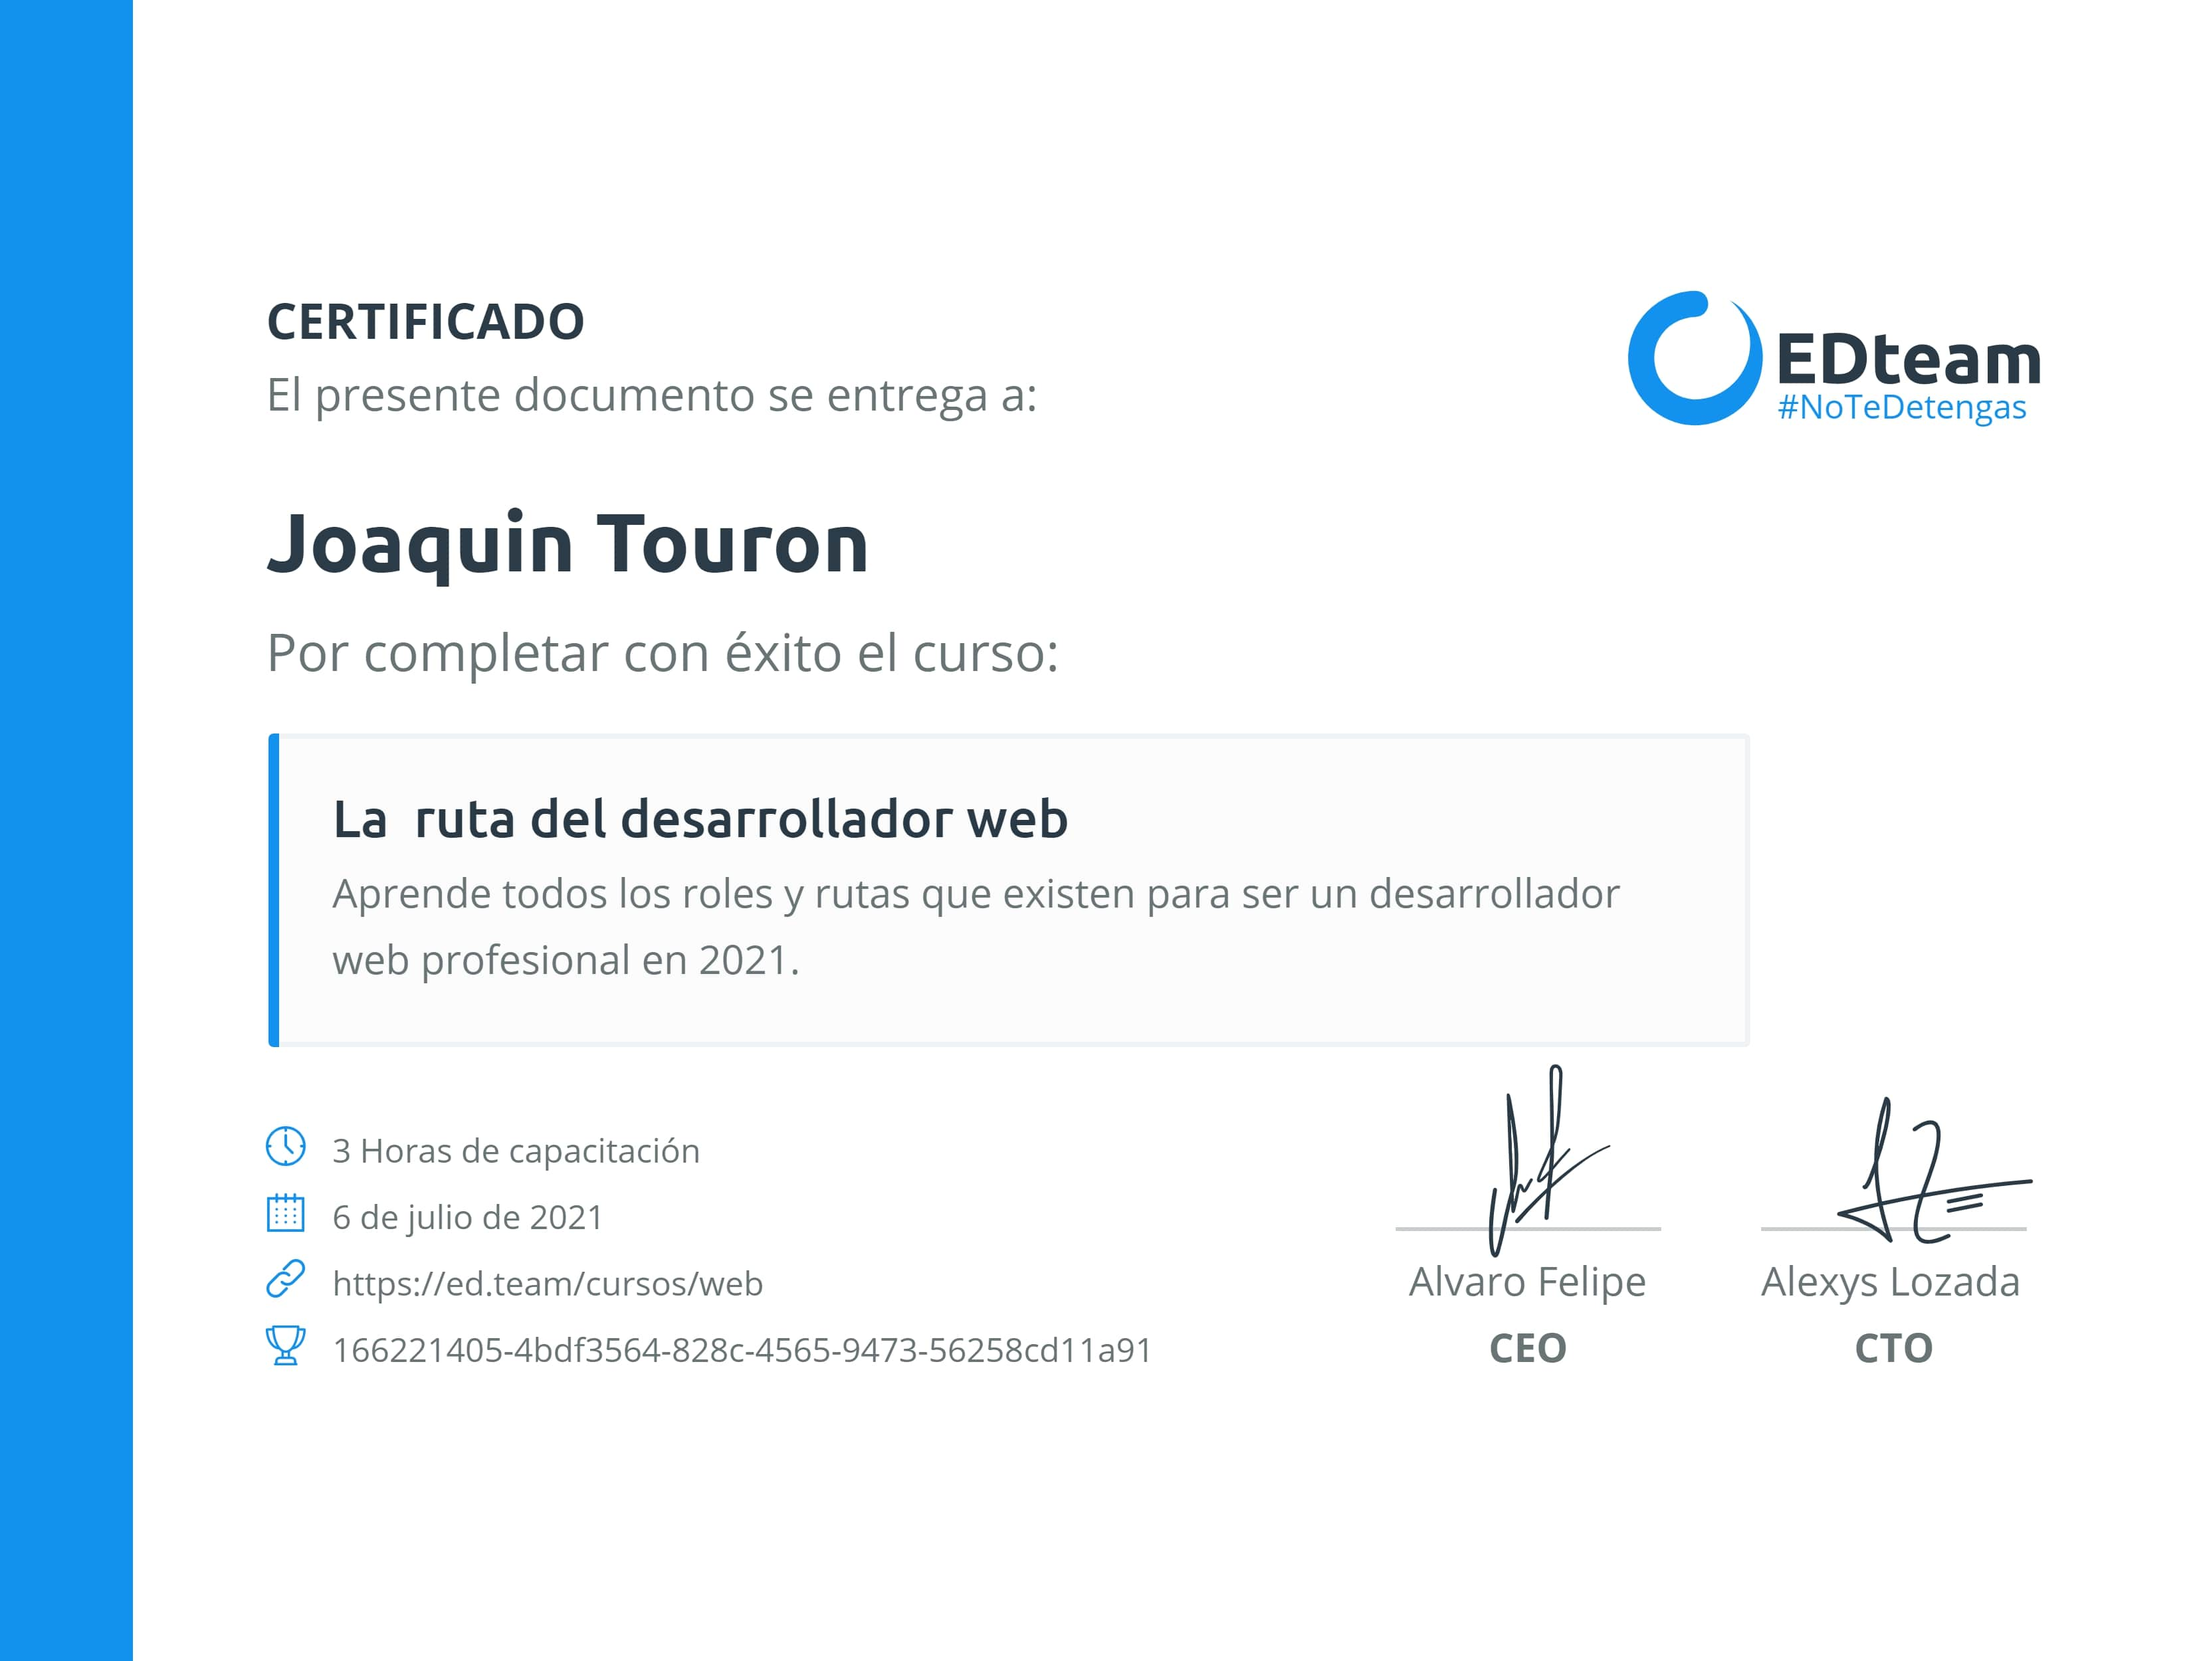
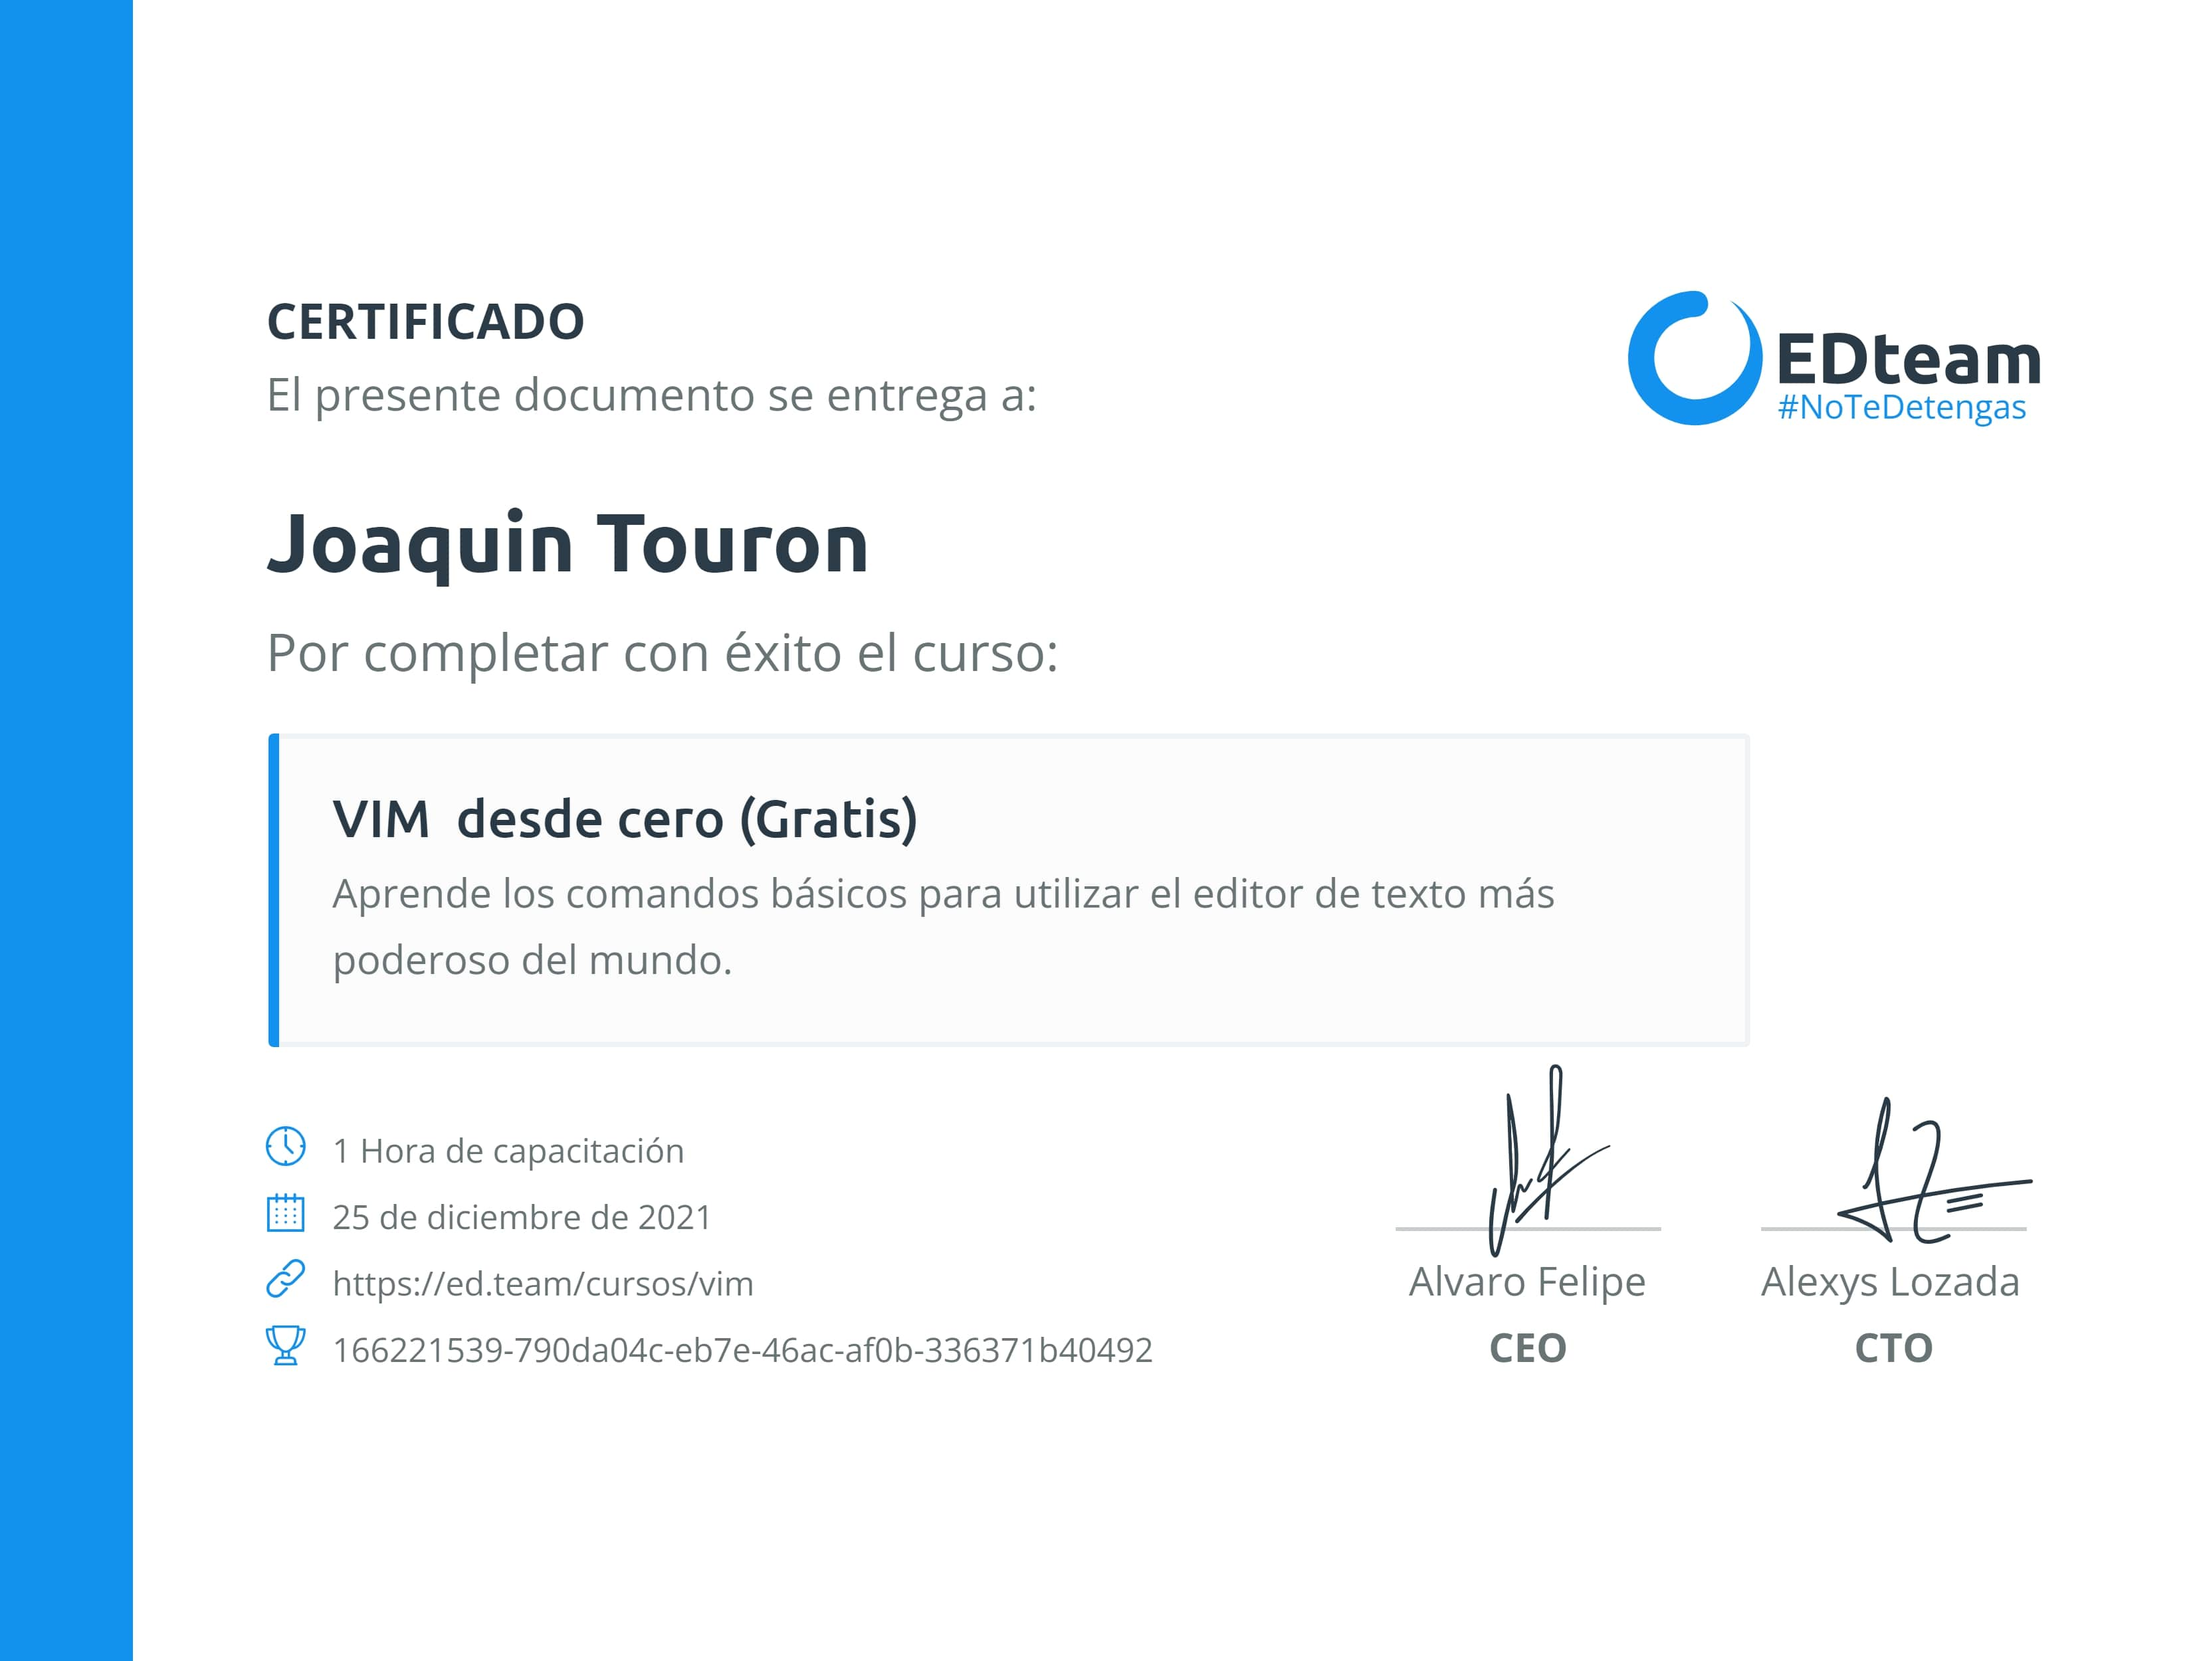
added vim certificate

diff --git a/js/script.js b/js/script.js
@@ -109,7 +109,7 @@ var image1 = document.getElementById("aboutImage1");
 var image2 = document.getElementById("aboutImage2");
 var image3 = document.getElementById("aboutImage3");
 var imageOrder = [image1, image2, image3];
-var totalImages = 27;
+var totalImages = 28;
 var currentImage = 3;
 
 const imageSlideshow = () => {
